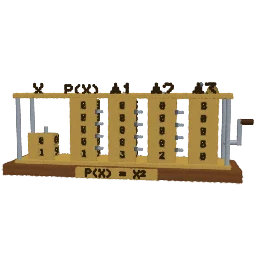
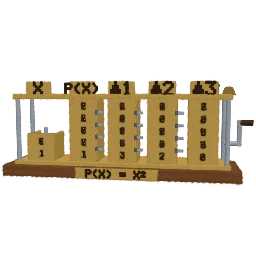
Machines A: difference engine column housings and label plates; the Bombe's shelf name fits a phone card; lane screenshots
Claude-Session: https://claude.ai/code/session_012AAs7rjs98dgurA1n4iRt2

diff --git a/src/packs/computing-history.js b/src/packs/computing-history.js
@@ -800,7 +800,8 @@ function buildDifference(k, o) {
     const h = col.digits * pitch + 0.08;
     k.add(evenCylinder(0.014, 0.014, h + 0.06, false), { pos: [col.x, y0 + (col.digits - 1) * pitch / 2, 0], even: true, weight: 1.5, pattern: false, color: steel }); // prettier-ignore
     for (let j = 0; j < col.digits; j++) deWheel(k, [col.x, y0 + j * pitch, 0], col.token + j, col.id === "v"); // prettier-ignore
-    text(k, col.label, [col.x, topY + 0.06, 0.2], col.id === "v" ? 0.016 : 0.02, "#2a1c0c", { weight: 10 }); // prettier-ignore
+    block(k, [0.26, 0.13, 0.012], [col.x, topY + 0.085, 0.19], brass, { weight: 1.2 });
+    text(k, col.label, [col.x, topY + 0.085, 0.21], col.id === "v" ? 0.016 : 0.02, "#2a1c0c", { weight: 10 }); // prettier-ignore
     // A brass shield in front of the column with a window at each wheel's
     // front digit, so each wheel shows one digit, like an odometer.
     const sw = 0.28;
@@ -820,7 +821,10 @@ function buildDifference(k, o) {
         if (win && (c.s.face === 4 || c.s.face === 5)) return null;
         return keep(lit(BRASS, c.n, { amb: 0.62, dif: 0.42, spec: 0.5, pow: 22 })); // prettier-ignore
       },
-    });
+    }); // Side plates, so the wheels show only through the windows from any
+    // side the camera looks.
+    for (const sd of [-1, 1])
+      block(k, [0.012, sh, r + 0.2], [col.x + (sd * sw) / 2, sy, (r + 0.03) / 2 - 0.08], brass, { weight: 1.1 }); // prettier-ignore
   }
   // The carry levers: a small steel arm to the right of each wheel that
   // takes a carry, pivoting about an upright pin (tokens).
@@ -844,17 +848,17 @@ function buildDifference(k, o) {
   k.add(evenCylinder(0.02, 0.02, 0.14, true), { pos: [xr + 0.08, y0 + pitch, 0], rot: [0, 0, 90], even: true, weight: 2, pattern: false, color: steel }); // prettier-ignore
   k.add(evenBox(0.03, 0.26, 0.04), { pos: [xr + 0.16, y0 + pitch + 0.11, 0], even: true, weight: 2, part: crank, pattern: false, color: steel }); // prettier-ignore
   k.add(evenCylinder(0.024, 0.024, 0.12, true), { pos: [xr + 0.23, y0 + pitch + 0.22, 0], rot: [0, 0, 90], even: true, weight: 2.5, part: crank, pattern: false, color: wood(DARK_WOOD) }); // prettier-ignore
-  const bx = xr - 0.12;
+  const bx = xr + 0.06;
   k.add(k.lathe([[0.001, 0.08], [0.03, 0.078], [0.05, 0.05], [0.062, 0.015], [0.075, 0]], { grid: 40 }), {
-    pos: [bx, topY + 0.02, -0.08],
+    pos: [bx, topY + 0.02, -0.17],
     even: true,
     weight: 2,
     pattern: false,
     color: (c) => keep(lit("#d8b24e", c.n, { amb: 0.6, dif: 0.45, spec: 0.7, pow: 18 })),
   }); // prettier-ignore
-  const hammer = k.part("hammer", { pivot: [bx - 0.12, topY + 0.02, -0.08], axis: [0, 0, 1] });
-  k.add(evenCylinder(0.007, 0.007, 0.1, true), { pos: [bx - 0.12, topY + 0.07, -0.08], even: true, weight: 3, part: hammer, pattern: false, color: darkSteel }); // prettier-ignore
-  k.add(k.sphere(0.018), { pos: [bx - 0.12, topY + 0.12, -0.08], even: true, weight: 3, part: hammer, pattern: false, color: darkSteel }); // prettier-ignore
+  const hammer = k.part("hammer", { pivot: [bx - 0.12, topY + 0.02, -0.17], axis: [0, 0, 1] });
+  k.add(evenCylinder(0.007, 0.007, 0.1, true), { pos: [bx - 0.12, topY + 0.07, -0.17], even: true, weight: 3, part: hammer, pattern: false, color: darkSteel }); // prettier-ignore
+  k.add(k.sphere(0.018), { pos: [bx - 0.12, topY + 0.12, -0.17], even: true, weight: 3, part: hammer, pattern: false, color: darkSteel }); // prettier-ignore
 }
 // A typed polynomial in the engine's own letters (the pixel font).
 function deShowEq(eq) {

diff --git a/src/toys.js b/src/toys.js
@@ -3148,7 +3148,7 @@ export const TOYS = [
   },
   {
     id: "bombe",
-    label: "Turing-Welchman Bombe",
+    label: "Bombe",
     category: "computing",
     kind: "kit",
     pack: "computing-history",
